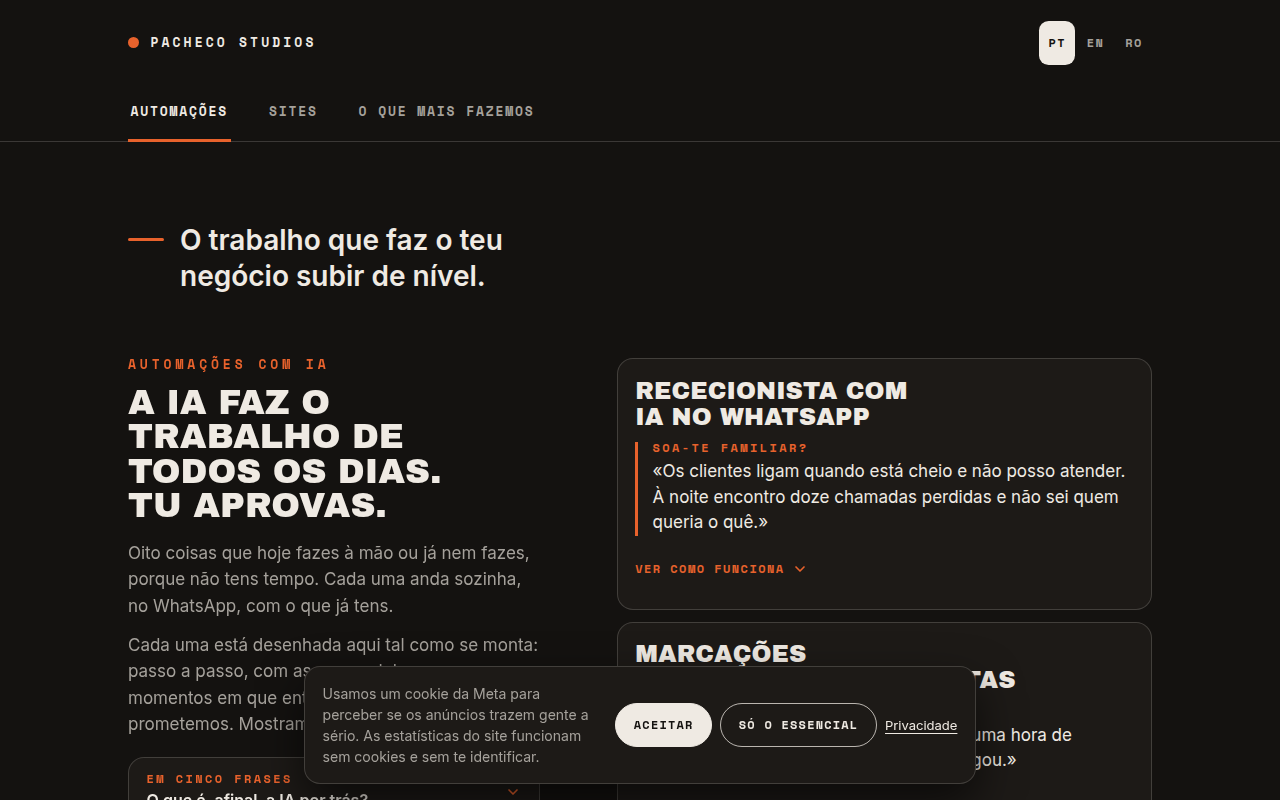
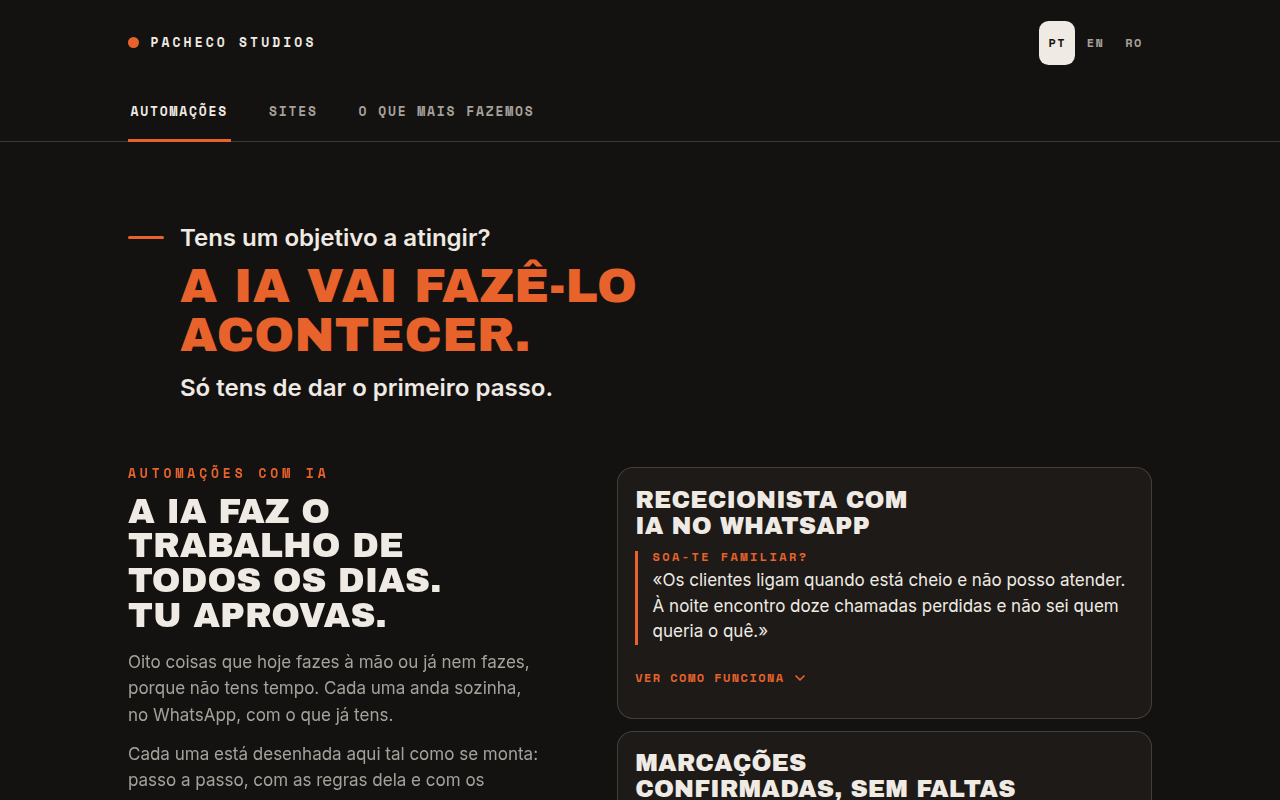
pachecost.com: lema em três frases, com "A IA vai fazê-lo acontecer." em laranja
Substitui "O trabalho que faz o teu negócio subir de nível." por três
frases (PT, RO, EN): pergunta, promessa em laranja na fonte display e o
primeiro passo. "fazê-lo" não se parte no hífen. Script, patch, capturas,
LEIA-ME e PLAYBOOK atualizados.

Claude-Session: https://claude.ai/code/session_01PCNLBUoGBpSZ9HyeNo7WFi

Changed region(s): [[0.0938, 0.2812, 0.875, 1.0], [0.75, 0.8438, 0.8125, 0.875]]

diff --git a/sites/pachecost/anuncio-2026-10/aplicar.py b/sites/pachecost/anuncio-2026-10/aplicar.py
@@ -47,9 +47,9 @@ HEROI = {
 }
 
 LEMA = {
-    "pt": "O trabalho que faz o teu negócio subir de nível.",
-    "ro": "Munca care îți duce afacerea la următorul nivel.",
-    "en": "The work that takes your business to the next level.",
+    "pt": ("Tens um objetivo a atingir?", "A IA vai <span class=\"nb\">fazê-lo</span> acontecer.", "Só tens de dar o primeiro passo."),
+    "ro": ("Ai un obiectiv de atins?", "AI-ul îl va face să se întâmple.", "Trebuie doar să faci primul pas."),
+    "en": ("Do you have a goal to reach?", "AI will make it happen.", "You just have to take the first step."),
 }
 
 PONTE = {
@@ -188,12 +188,18 @@ html.anuncio .sem-anuncio{display:none}
   .tabs ul{gap:2.25rem}
   .tabs a{padding-inline:.15rem}
 }
-/* ═══ lema: a frase da casa, no topo de cada vista principal. Escondido a quem chega por anúncio: aí fala o herói. ═══ */
-.lema{display:flex;align-items:flex-start;gap:1rem;margin:0 0 clamp(2.5rem,7vw,4rem);max-width:28ch;
-  font:600 clamp(1.25rem,2.6vw,1.75rem)/1.3 var(--texto);color:var(--osso);text-wrap:balance}
-.lema-traco{flex:none;width:2.25rem;height:3px;margin-top:.6em;border-radius:2px;background:var(--laranja);
+/* ═══ lema: três frases no topo de cada vista principal; a do meio, em laranja e na fonte display, é o destaque.
+   Escondido a quem chega por anúncio: aí fala o herói. ═══ */
+.lema{display:flex;align-items:flex-start;gap:1rem;margin:0 0 clamp(2.5rem,7vw,4rem);max-width:36rem;
+  font-size:clamp(1.1rem,2.2vw,1.5rem);color:var(--osso)}
+.lema-traco{flex:none;width:2.25rem;height:3px;margin-top:.62em;border-radius:2px;background:var(--laranja);
   transform-origin:left center;transform:scaleX(0);animation:lema-traco .9s var(--sair) .3s forwards}
 @keyframes lema-traco{to{transform:none}}
+.lema-txt{display:grid;gap:.3rem}
+.lema-l1,.lema-l3{font:600 1em/1.3 var(--texto);text-wrap:balance}
+.lema-l2{display:block;margin:.1em 0 .15em;font:400 clamp(1.6rem,4.4vw,3rem)/1.02 var(--display);text-transform:uppercase;
+  letter-spacing:.005em;color:var(--laranja);text-wrap:balance}
+.lema .nb{white-space:nowrap}
 html.anuncio .lema{display:none}
 /* ═══ pontes: dos sites para as automações (fim dos tipos de negócio) e das automações para os sites (fim da vista) ═══ */
 .ponte{margin-top:clamp(3rem,9vw,5rem);display:grid;gap:1.75rem;padding:clamp(1.4rem,4vw,2.5rem);
@@ -286,8 +292,9 @@ def heroi(h):
             f'    </div>\n')
 
 
-def lema(texto):
-    return f'    <p class="lema"><span class="lema-traco" aria-hidden="true"></span>{texto}</p>\n'
+def lema(t):
+    return (f'    <p class="lema"><span class="lema-traco" aria-hidden="true"></span><span class="lema-txt">'
+            f'<span class="lema-l1">{t[0]}</span> <strong class="lema-l2">{t[1]}</strong> <span class="lema-l3">{t[2]}</span></span></p>\n')
 
 
 def ponte(p):

diff --git a/PLAYBOOK.md b/PLAYBOOK.md
@@ -234,7 +234,7 @@ Twilio (nunca Evolution/Baileys — banimento Meta) → n8n → ler QR Code da A
 - [ ] **Dra. Angélica Lauermann Gomes (dentista, Mogi das Cruzes – SP, Brasil)** — análise em `research/dra-angelica-lauermann.md`: faturação provável R$ 20–25 mil/mês; 3 focos = marcação + anti-falta por WhatsApp, Google (site pt-BR + avaliações), orçamentos + retorno. Primeiro cliente fora de Portugal: site pt-BR, LGPD, regras de publicidade do CFO. Esquema dos 3 workflows (Cal.com + Make/n8n + Notion + Brevo, sem HighLevel) em `research/dra-angelica-workflows.html`. **24/09:** demo do site feita (`sites/dra-angelica-lauermann/`); o Tomás decidiu que a agenda não será o Cal.com (volume de uma clínica); o esquema dos workflows passou a "agenda da clínica, a escolher" (requisitos: webhook ou API e link de reagendamento). **Depois:** o Tomás decidiu não usar a Clinicorp (custos em `research/agenda-clinica-odontologica-br.md`) e construir um sistema à medida: Supabase + painel PWA + WhatsApp Cloud API + n8n + IA (Claude) + Brevo, sem o prontuário (legal). Arquitetura e fases em `research/dra-angelica-sistema.md`. Checklist de execução (60 passos) em `research/dra-angelica-checklist.md`. Planos de anúncios R$ 500/1.000/1.500 com lucro estimado e preços médios dos tratamentos em `research/dra-angelica-planos.html` (artifact PPcYDCpasuT83ksvfcvKuG); preços Pacheco Studios: Essencial R$ 4.000 + R$ 500/mês, Crescimento R$ 6.000 + R$ 750/mês, Completo R$ 10.000 + R$ 1.100/mês (mensalidades "a partir de").
 - [ ] Acrescentar telefone do Tomás às propostas PDF e à constante `TELEFONE` em `prospecao/qr/gerar_qr.py` (até lá os cartões saem só com e-mail).
 - [ ] **Iași — semana 1 (28/09–04/10)** (`research/iasi.md`, secção 9): o Tomás está em Iași desde 25/09 (aulas na UAIC a partir de 28/09 — rua à tarde, 15h–18h). Confirmar no Maps e pedir num só chat as 5 primeiras demos RO/EN/FR (Pizza Nico, Berăria Veche, Bistro La Noi, Cafeneaua Piața Unirii, Fat Cat Coffee) · preencher demo + Place ID em `prospecao/qr/iasi.csv` e imprimir · centro só até 7/10 (Sf. Parascheva 8–15/10: bairros e follow-ups) · contabilista (VIES/autoliquidação, retenção) antes da 1.ª fatura · registo no IGI se ficar mais de 3 meses.
-- [ ] **Campanha Meta (2 anúncios, desde 30/09/2026)** — registo em `prospecao/anuncios.csv`. Os dois são "Obter mais visitantes no site", 5 €/dia cada, um para `pachecost.com` (PT) e outro para `ro.pachecost.com` (RO). Ao 2.º dia: 14,38 € gastos, 199 visitas ao site a 0,06–0,08 € cada, **0 contactos**. O vídeo é visto 4 s em média e começa com 0,5 s a negro (miniaturas pretas). As 111 "conversas" do resumo não são mensagens (nenhum anúncio tem botão de mensagem). Feito 01/10: primeiro ecrã para quem chega por anúncio, aviso de cookies compacto, separadores com mais ar, lema ("O trabalho que faz o teu negócio subir de nível.") e ponte para as automações. **Feito 02/10: foco nas automações com IA** (vista inicial, título/descrição, contacto, ponte das automações para os sites). Tudo em `sites/pachecost/anuncio-2026-10/` (zip `pachecost-deploy-foco-ia.zip` entregue; **passar para o gerador do site**, que não está neste repo). Os anúncios a correr continuam a cair nos sites; os próximos, sobre automações, levam `#automatizari` no link. A fazer: publicar o zip no Netlify e testar `pachecost.com/?origem=anuncio`; ver a caixa de entrada da página no PC (business.facebook.com/latest/inbox); ler no GoatCounter `anuncio/chegada` vs `anuncio/whatsapp`; decidir o vídeo de 15 s com o público chamado nos 2 primeiros segundos e um anúncio de mensagens com destino WhatsApp. A confirmar: que vídeos estão no ar e o texto dos anúncios. Bolta Rece e Hanam ainda não são clientes: pedir autorização para usar nome e fotos. O domínio pachecost.com está bloqueado na rede das sessões: juntar aos domínios permitidos para o rever.
+- [ ] **Campanha Meta (2 anúncios, desde 30/09/2026)** — registo em `prospecao/anuncios.csv`. Os dois são "Obter mais visitantes no site", 5 €/dia cada, um para `pachecost.com` (PT) e outro para `ro.pachecost.com` (RO). Ao 2.º dia: 14,38 € gastos, 199 visitas ao site a 0,06–0,08 € cada, **0 contactos**. O vídeo é visto 4 s em média e começa com 0,5 s a negro (miniaturas pretas). As 111 "conversas" do resumo não são mensagens (nenhum anúncio tem botão de mensagem). Feito 01/10: primeiro ecrã para quem chega por anúncio, aviso de cookies compacto, separadores com mais ar, lema (02/10: "Tens um objetivo a atingir? / A IA vai fazê-lo acontecer. / Só tens de dar o primeiro passo.", a do meio em laranja) e ponte para as automações. **Feito 02/10: foco nas automações com IA** (vista inicial, título/descrição, contacto, ponte das automações para os sites). Tudo em `sites/pachecost/anuncio-2026-10/` (zip `pachecost-deploy-foco-ia.zip` entregue; **passar para o gerador do site**, que não está neste repo). Os anúncios a correr continuam a cair nos sites; os próximos, sobre automações, levam `#automatizari` no link. A fazer: publicar o zip no Netlify e testar `pachecost.com/?origem=anuncio`; ver a caixa de entrada da página no PC (business.facebook.com/latest/inbox); ler no GoatCounter `anuncio/chegada` vs `anuncio/whatsapp`; decidir o vídeo de 15 s com o público chamado nos 2 primeiros segundos e um anúncio de mensagens com destino WhatsApp. A confirmar: que vídeos estão no ar e o texto dos anúncios. Bolta Rece e Hanam ainda não são clientes: pedir autorização para usar nome e fotos. O domínio pachecost.com está bloqueado na rede das sessões: juntar aos domínios permitidos para o rever.
 - [ ] Registar no tracker as 4 primeiras semanas de rotina e substituir a hipótese de funil (2 % de fecho) pelas taxas reais em `research/metodo-10x-cardone.md`.
 - [ ] Registar taxas de fecho por tipo de negócio (Albufeira, Gambelas, VNC).
 - [ ] **Toda Chic** — pedir à dona: (1) fotos individuais sem preço nem faixa das 6 peças que só existem em fichas (calções de linho, saia, blusas sem alça, vestido preto/branco, pantalona, conjunto vermelho); (2) preço das calças clássicas em 4 cores e das sandálias com laços; (3) tamanhos das ~20 peças sem indicação; (4) identificação da empresa (nome, NIF, morada), e-mail, portes/transportadora, software de faturação. Depois: mostrar a demo, fechar orçamento por referências, montar WooCommerce + ifthenpay.

diff --git a/sites/pachecost/anuncio-2026-10/LEIA-ME.md b/sites/pachecost/anuncio-2026-10/LEIA-ME.md
@@ -41,13 +41,13 @@ A partir de 48rem: 2,25rem entre separadores, sublinhado só na largura do texto
 
 ## 4. Lema (PT, RO, EN)
 
-No topo das vistas Automações e Sites, com um traço laranja que se desenha ao carregar (respeita `prefers-reduced-motion`):
+No topo das vistas Automações e Sites: três frases, com a do meio em laranja e na fonte display (o destaque), e um traço laranja que se desenha ao carregar (respeita `prefers-reduced-motion`):
 
-- PT: O trabalho que faz o teu negócio subir de nível.
-- RO: Munca care îți duce afacerea la următorul nivel.
-- EN: The work that takes your business to the next level.
+- PT: Tens um objetivo a atingir? / **A IA vai fazê-lo acontecer.** / Só tens de dar o primeiro passo.
+- RO: Ai un obiectiv de atins? / **AI-ul îl va face să se întâmple.** / Trebuie doar să faci primul pas.
+- EN: Do you have a goal to reach? / **AI will make it happen.** / You just have to take the first step.
 
-Escondido a quem chega por anúncio (aí fala o herói).
+Em português, "fazê-lo" não se parte no hífen (`span.nb`). Escondido a quem chega por anúncio (aí fala o herói).
 
 ## 5. Ponte para as automações (PT, RO, EN)
 
